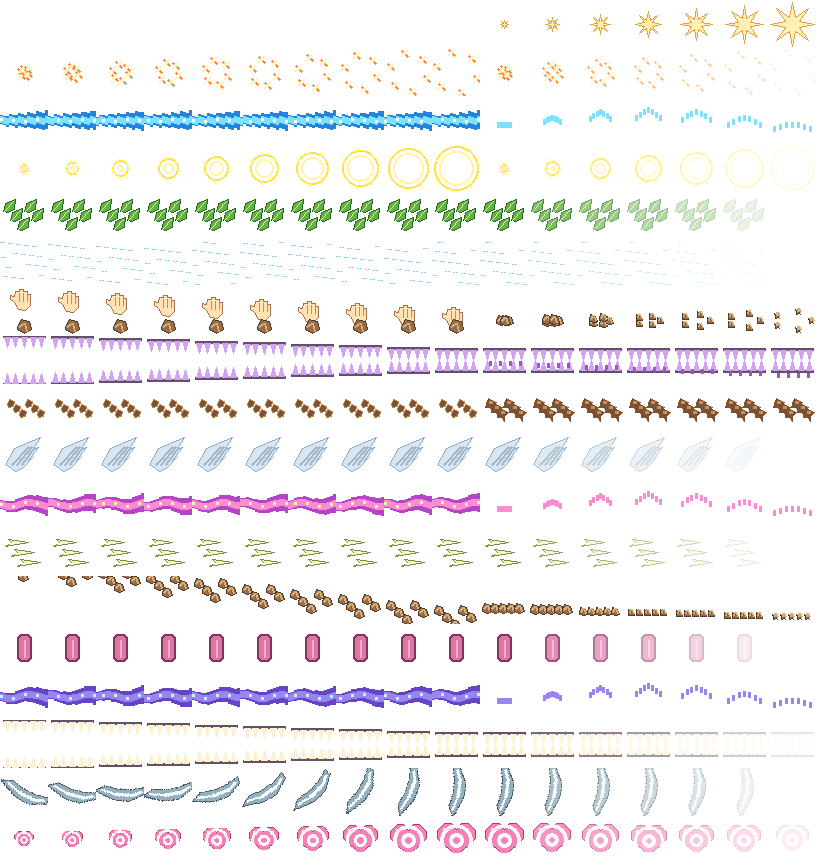
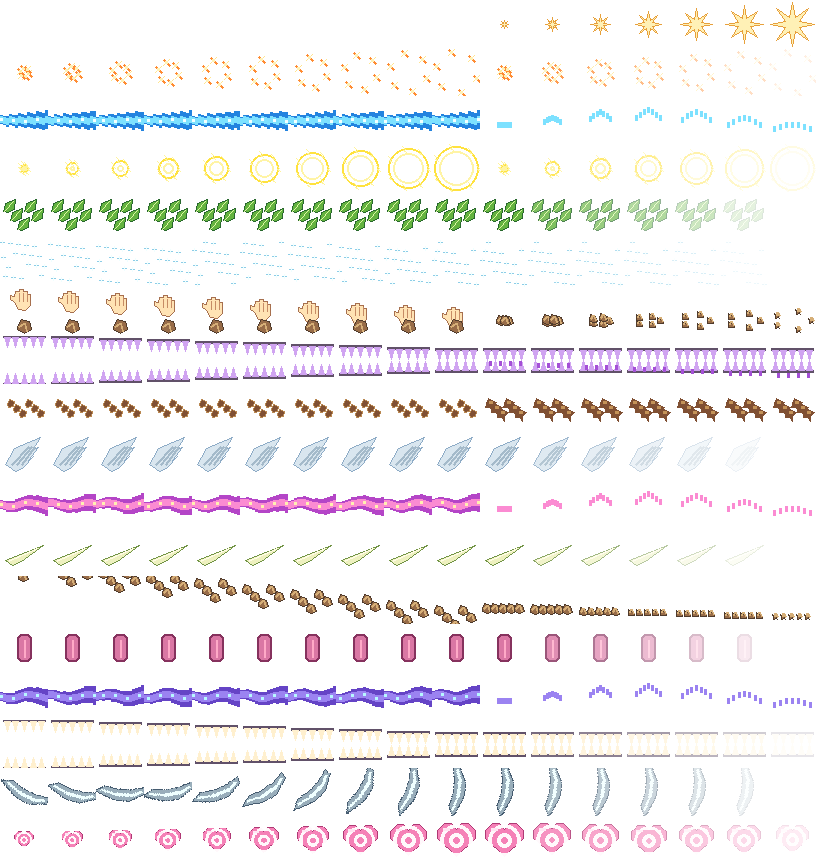
Add outward electric arcs and a single piercing horn

Changed region(s): [[0.0, 0.625, 0.8578, 0.6562], [0.8885, 0.625, 0.9191, 0.6562]]

diff --git a/js/move-effects.js b/js/move-effects.js
@@ -21,7 +21,7 @@
     땅: { arc: 25, duration: 300 },
     비행: { duration: 300, passThrough: true },
     에스퍼: { beam: true, duration: 450 },
-    벌레: { reach: 0.45, duration: 300 },
+    벌레: { duration: 300, passThrough: true },
     바위: { reach: 0, duration: 350 },
     고스트: { reach: 0, duration: 350, sweepUp: true },
     드래곤: { beam: true, duration: 500, since: 4 },
@@ -34,7 +34,7 @@
   function loadSheet(style) {
     if (!sheets.has(style)) {
       const image = new Image();
-      image.src = new URL("../assets/effects/" + style + "/moves.png?v=radial-moves-6", scriptUrl);
+      image.src = new URL("../assets/effects/" + style + "/moves.png?v=electric-horn-7", scriptUrl);
       sheets.set(style, image.decode().then(() => image, () => {
         sheets.delete(style);
         return null;
@@ -85,6 +85,52 @@
     });
   }
 
+  function makeLightning(container, x, y, dx, dy) {
+    const pixelSize = 4;
+    const padding = 32;
+    const left = Math.min(x, x + dx) - padding;
+    const top = Math.min(y, y + dy) - padding;
+    const canvas = document.createElement("canvas");
+    canvas.className = "electric-branches";
+    canvas.width = Math.ceil((Math.abs(dx) + padding * 2) / pixelSize);
+    canvas.height = Math.ceil((Math.abs(dy) + padding * 2) / pixelSize);
+    canvas.style.left = left + "px";
+    canvas.style.top = top + "px";
+    canvas.style.width = canvas.width * pixelSize + "px";
+    canvas.style.height = canvas.height * pixelSize + "px";
+    container.append(canvas);
+    const context = canvas.getContext("2d");
+    const startX = (x + dx - left) / pixelSize;
+    const startY = (y + dy - top) / pixelSize;
+    const endX = (x - left) / pixelSize;
+    const endY = (y - top) / pixelSize;
+
+    return (progress) => {
+      context.clearRect(0, 0, canvas.width, canvas.height);
+      const phase = Math.floor(progress * 8);
+      if (phase === 0 || phase === 3 || phase === 6) return;
+      for (let branch = -1; branch <= 1; branch += 1) {
+        const points = [];
+        for (let step = 0; step <= 8; step += 1) {
+          const fraction = step / 8;
+          const jitter = step > 0 && step < 8
+            ? ((step + phase) % 2 ? 1 : -1) * (3 + Math.abs(branch) * 2) : 0;
+          points.push([
+            Math.round(startX + (endX - startX) * fraction + branch * 7 * Math.sin(Math.PI * fraction)),
+            Math.round(startY + (endY - startY) * fraction + jitter),
+          ]);
+        }
+        context.beginPath();
+        points.forEach(([px, py], index) => index ? context.lineTo(px, py) : context.moveTo(px, py));
+        context.strokeStyle = "#e6a719";
+        context.lineWidth = 3;
+        context.stroke();
+        context.strokeStyle = "#fff5a6";
+        context.lineWidth = 1;
+        context.stroke();
+      }
+    };
+  }
   function prepare(type, styleKey, container, x, y, dx, dy, signal) {
     const style = styles[styleKey];
     const move = moves[type];
@@ -98,6 +144,34 @@
     canvas.style.top = anchorY + "px";
     container.append(canvas);
     const sheet = loadSheet(styleKey);
+    if (type === "전기") {
+      const arcs = document.createElement("canvas");
+      arcs.className = "electric-arcs";
+      arcs.width = 128;
+      arcs.height = 96;
+      arcs.style.left = (x + dx) + "px";
+      arcs.style.top = (y + dy) + "px";
+      const paint = arcs.getContext("2d");
+      const direction = Math.sign(-dx) || 1;
+      const lines = [
+        [[0,-9],[10,-18],[8,-23],[20,-25],[17,-33],[30,-39]],
+        [[0,7],[13,13],[10,20],[24,19],[21,29],[34,34]],
+        [[7,0],[17,-4],[22,2],[33,-6],[38,-2],[48,-12]],
+      ];
+      for (const points of lines) {
+        paint.beginPath();
+        points.forEach(([px,py], index) => {
+          const pointX = 54 + px * direction;
+          if (index === 0) paint.moveTo(pointX, 48 + py);
+          else paint.lineTo(pointX, 48 + py);
+        });
+        paint.strokeStyle = "#ffd52c";
+        paint.lineWidth = 2;
+        paint.stroke();
+      }
+      container.append(arcs);
+    }
+    const drawLightning = type === "전기" ? makeLightning(container, x, y, dx, dy) : null;
     return {
       async flight() {
         if (move.beam) {

diff --git a/index.html b/index.html
@@ -7,10 +7,10 @@
   <link rel="stylesheet" href="https://cdn.jsdelivr.net/npm/galmuri@2.40.3/dist/galmuri.css">
   <link rel="stylesheet" href="css/base.css">
   <link rel="stylesheet" href="css/layout.css">
-  <link rel="stylesheet" href="css/battle.css?v=radial-moves-6">
-  <script src="js/data.js?v=radial-moves-6" defer></script>
-  <script src="js/move-effects.js?v=radial-moves-6" defer></script>
-  <script src="js/battle.js?v=radial-moves-6" defer></script>
+  <link rel="stylesheet" href="css/battle.css?v=electric-branches-7">
+  <script src="js/data.js?v=electric-branches-7" defer></script>
+  <script src="js/move-effects.js?v=electric-branches-7" defer></script>
+  <script src="js/battle.js?v=electric-branches-7" defer></script>
   <script src="js/main.js" defer></script>
 </head>
 <body>

diff --git a/css/battle.css b/css/battle.css
@@ -246,3 +246,28 @@
 .effect-picker p { font-size: 0.8rem; }
 
 .move-frames.move-beam { height: 6.24rem; }
+
+
+
+
+
+
+
+.electric-branches {
+  position: absolute;
+  pointer-events: none;
+  image-rendering: pixelated;
+}
+
+.electric-arcs {
+  position: absolute;
+  width: clamp(12rem, 38vw, 21rem);
+  height: auto;
+  transform: translate(-42%, -50%);
+  image-rendering: pixelated;
+  animation: electric-arcs-flash 180ms steps(2, end) infinite;
+}
+@keyframes electric-arcs-flash {
+  0%, 65% { opacity: 1; }
+  66%, 100% { opacity: 0.25; }
+}

diff --git a/assets/effects/build-sheets.py b/assets/effects/build-sheets.py
@@ -106,10 +106,8 @@ def frame(move,index,count,style,impact):
             d.line((x-2,y,x+2,y),fill="#8ccde7")
             d.line((x,y-2,x,y+2),fill="#efffff")
     elif move=="벌레":
-        for i in range(3):
-            x=15+i*6;y=14+i*10
-            d.polygon([(x-10,y+4),(x+13,y),(x-7,y-3),(x-4,y)],fill="#f3efb7",outline="#739344")
-            d.line((x-8,y+1,x+8,y),fill="#fffce4")
+        d.polygon([(5,32),(43,17),(21,33),(12,37)],fill="#eef1bf",outline="#719345")
+        d.line((9,32,36,20),fill="#fffce4",width=2)
     elif move in ("악","독"):
         gap=round((1-t)*13) if not impact else 0
         d.line((3,13-gap,45,13-gap),fill="#615169",width=3)
